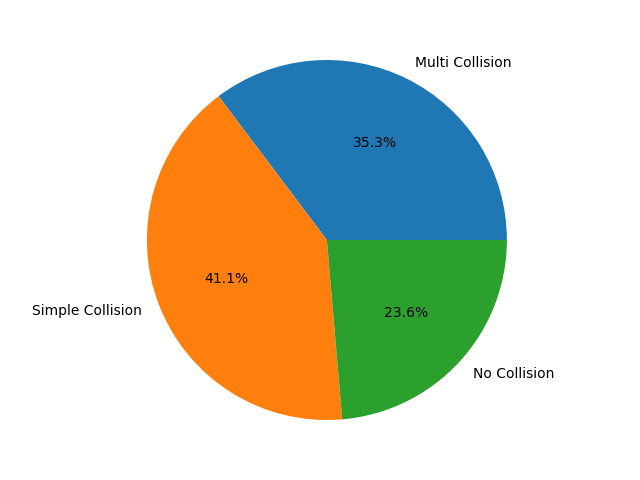
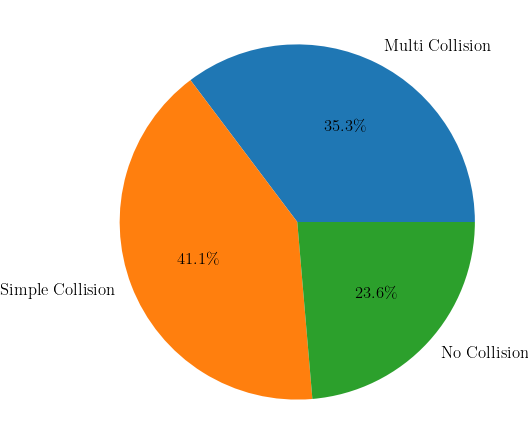
cropped and styled pie charts

diff --git a/paper.tex b/paper.tex
@@ -8,6 +8,7 @@
 \usepackage[T1]{fontenc}
 \usepackage{tikz}
 \usetikzlibrary{positioning,fit,arrows.meta,backgrounds}
+\usepackage{graphicx}
 \usepackage{amsmath, amssymb, xcolor, tikz, pgfplots, pgfplotstable}
 
 \newcommand{\todo}[1]{{\color{red}#1}}
@@ -116,7 +117,7 @@ The software pipeline is built from several modular components called executors 
 \begin{figure}[htpb]
 	\centering
     \tikzset{
-    	node distance = 6m and 0cm,
+    	node distance = 6mm and 0cm,
         module/.style={%
             draw, rounded corners,
             minimum width=#1,
@@ -339,14 +340,14 @@ We have aggregated some statistics about our dataset to help clients understand 
 
 \begin{figure}[htpb]
 		\centering
-    \includegraphics[width=3in]{by-collision.png}
+    \includegraphics[width=3in,trim={0 1cm 0 1cm},clip]{by-collision.png}
 		\caption{All videos in database grouped by collision type}
 		\label{fig:vids-by-collision}
 \end{figure}
 
 \begin{figure}[htpb]
 		\centering
-    \includegraphics[width=3in]{by-camera.png}
+    \includegraphics[width=3in,trim={0 1cm 0 1cm},clip]{by-camera.png}
 		\caption{All videos in database grouped by camera type}
 		\label{fig:vids-by-camera}
 \end{figure}

diff --git a/scripts/make_by-collision.py b/scripts/make_by-collision.py
@@ -6,9 +6,9 @@ from functools import reduce
 from matplotlib import pyplot as plt
 
 FIREBASE_CRED_FILENAME = "autodash-9dccb-add3cdae62ea.json"
-NO_COLLISION_LABEL = "No Collision"
-MULTI_COLLISION_LABEL = "Multi Collision"
-SIMPLE_COLLISION_LABEL = "Simple Collision"
+NO_COLLISION_LABEL = "No\ Collision"
+MULTI_COLLISION_LABEL = "Multi\ Collision"
+SIMPLE_COLLISION_LABEL = "Simple\ Collision"
 
 def pie_by_collision(hist, data):
     (key, data) = data
@@ -39,6 +39,12 @@ if __name__ == '__main__':
     data = [ val for val in metadata.get().items() ]
     pie = reduce(pie_by_collision, data, {})
     fig, ax = plt.subplots()
-    ax.pie(pie.values(), labels=pie.keys(), autopct='%1.1f%%')
+    plt.rcParams['font.size'] = 12.0
+    plt.rcParams['text.usetex'] = True
+    values = list(pie.values())
+    keys = list(pie.keys())
+    for i in range(len(keys)):
+        keys[i] = r'$\mathrm{{{0}}}$'.format(keys[i])
+    ax.pie(values, labels=keys, autopct=r'$%.1f\%%$')
     fig.tight_layout()
-    fig.savefig('by-collision.png')
+    fig.savefig('by-collision.png', bbox_inches='tight', pad_inches=0)

diff --git a/scripts/make_by-camera.py b/scripts/make_by-camera.py
@@ -6,8 +6,8 @@ from functools import reduce
 from matplotlib import pyplot as plt
 
 FIREBASE_CRED_FILENAME = "autodash-9dccb-add3cdae62ea.json"
-STATIONARY_CAMERA_LABEL= "Stationary Camera"
-MANHELD_CAMERA_LABEL= "Manheld Camera"
+STATIONARY_CAMERA_LABEL= "Stationary\ Camera"
+MANHELD_CAMERA_LABEL= "Manheld\ Camera"
 DASHCAM_LABEL= "Dashcam"
 
 def pie_by_camera(hist, data):
@@ -39,6 +39,12 @@ if __name__ == '__main__':
     data = [ val for val in metadata.get().items() ]
     pie = reduce(pie_by_camera, data, {})
     fig, ax = plt.subplots()
-    ax.pie(pie.values(), labels=pie.keys(), autopct='%1.1f%%')
+    plt.rcParams['font.size'] = 12.0
+    plt.rcParams['text.usetex'] = True
+    values = list(pie.values())
+    keys = list(pie.keys())
+    for i in range(len(keys)):
+        keys[i] = r'$\mathrm{{{0}}}$'.format(keys[i])
+    ax.pie(values, labels=keys, autopct=r'$%.1f\%%$')
     fig.tight_layout()
-    fig.savefig('by-camera.png')
+    fig.savefig('by-camera.png', bbox_inches='tight', pad_inches=0)

diff --git a/README.md b/README.md
@@ -16,7 +16,7 @@ On Ubuntu, you can install all the other required packages by running
 sudo apt install texlive texlive-latex-recommended \
   texlive-science texlive-publishers texlive-latex-extra  \
   texlive-bibtex-extra texlive-fonts-extra \
-  biber
+  biber dvipng
 ```
 Or alternatively, (if you have a lot of disk space)
 ```bash
